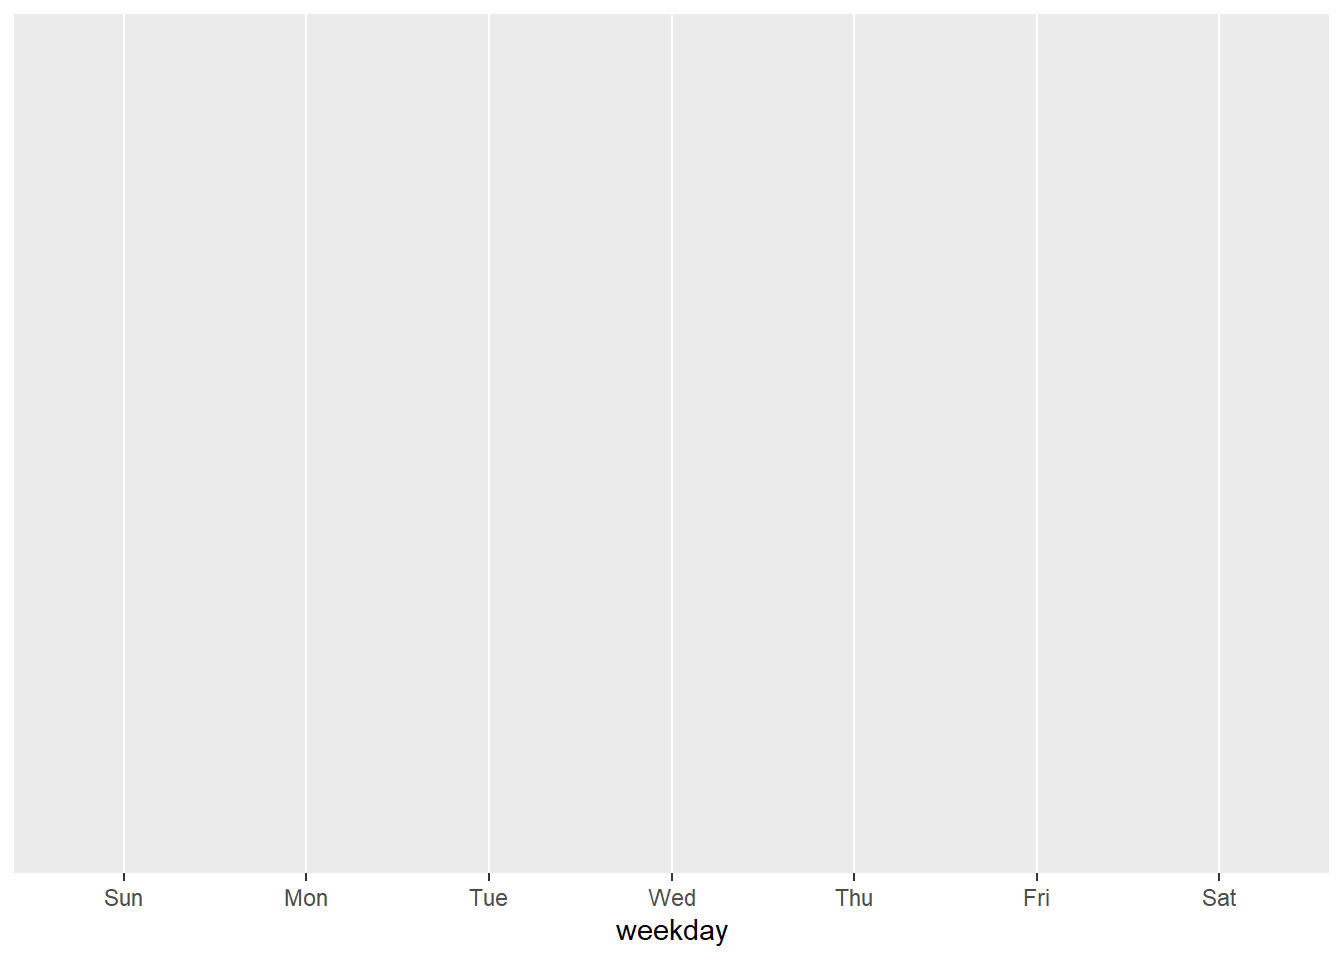
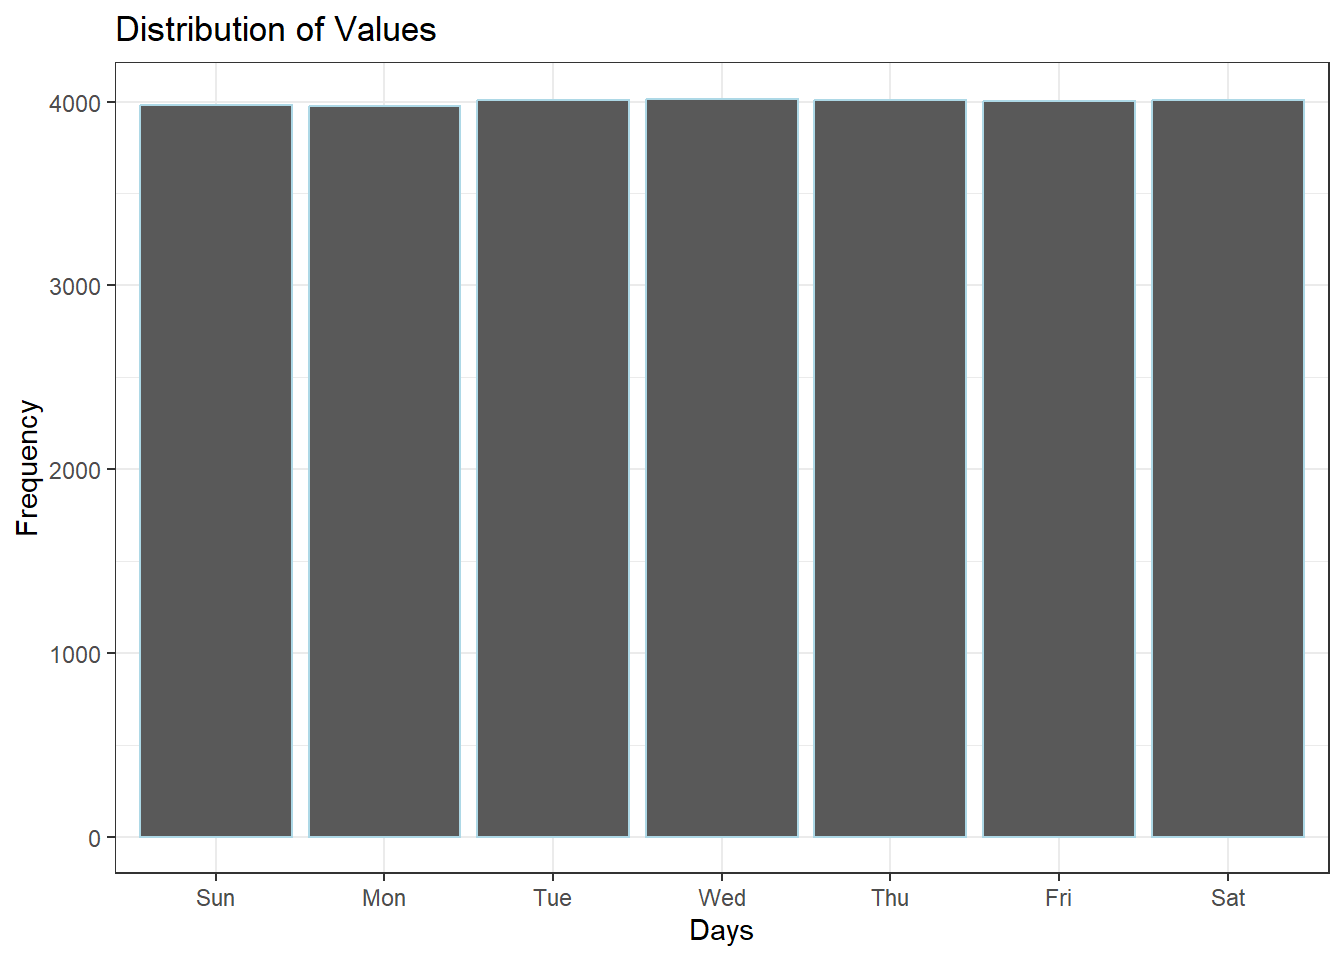
Update ice2

diff --git a/_site/In-Class_Ex/In-class_Ex02/In-class_Ex02.html b/_site/In-Class_Ex/In-class_Ex02/In-class_Ex02.html
@@ -134,11 +134,11 @@ pre > code.sourceCode > span > a:first-child::before { text-decoration: underlin
   </li>  
         <li>
     <a class="dropdown-item" href="../../Hands-on_Ex/Hands-on_Ex03/Hands-on_Ex03a.html" rel="" target="">
- <span class="dropdown-text">Hands-on Exercise 3a</span></a>
+ <span class="dropdown-text">Hands-on Exercise 3A</span></a>
   </li>  
         <li>
     <a class="dropdown-item" href="../../Hands-on_Ex/Hands-on_Ex03/Hands-on_Ex03b.html" rel="" target="">
- <span class="dropdown-text">Hands-on Exercise 3b</span></a>
+ <span class="dropdown-text">Hands-on Exercise 3B</span></a>
   </li>  
     </ul>
   </li>
@@ -321,7 +321,11 @@ Note
 <div class="cell">
 <details>
 <summary>Code</summary>
-<div class="sourceCode cell-code" id="cb7"><pre class="sourceCode r code-with-copy"><code class="sourceCode r"><span id="cb7-1"><a href="#cb7-1" aria-hidden="true" tabindex="-1"></a><span class="fu">ggplot</span>(<span class="at">data=</span>origin_df, <span class="fu">aes</span>(<span class="at">x=</span>weekday)) </span></code><button title="Copy to Clipboard" class="code-copy-button"><i class="bi"></i></button></pre></div>
+<div class="sourceCode cell-code" id="cb7"><pre class="sourceCode r code-with-copy"><code class="sourceCode r"><span id="cb7-1"><a href="#cb7-1" aria-hidden="true" tabindex="-1"></a><span class="fu">ggplot</span>(<span class="at">data=</span>origin_df, <span class="fu">aes</span>(<span class="at">x=</span>weekday)) <span class="sc">+</span></span>
+<span id="cb7-2"><a href="#cb7-2" aria-hidden="true" tabindex="-1"></a>  <span class="fu">geom_histogram</span>(<span class="at">stat=</span><span class="st">"count"</span>, <span class="at">bins=</span><span class="dv">7</span>, </span>
+<span id="cb7-3"><a href="#cb7-3" aria-hidden="true" tabindex="-1"></a>                   <span class="at">color=</span><span class="st">"lightblue"</span>) <span class="sc">+</span></span>
+<span id="cb7-4"><a href="#cb7-4" aria-hidden="true" tabindex="-1"></a>  <span class="fu">labs</span>(<span class="at">title =</span> <span class="st">"Distribution of Values"</span>, <span class="at">x =</span> <span class="st">"Days"</span>, </span>
+<span id="cb7-5"><a href="#cb7-5" aria-hidden="true" tabindex="-1"></a>       <span class="at">y =</span> <span class="st">"Frequency"</span>) <span class="sc">+</span> <span class="fu">theme_bw</span>()</span></code><button title="Copy to Clipboard" class="code-copy-button"><i class="bi"></i></button></pre></div>
 </details>
 <div class="cell-output-display">
 <p><img src="In-class_Ex02_files/figure-html/unnamed-chunk-8-1.png" class="img-fluid" width="672"></p>
@@ -331,6 +335,32 @@ Note
 </section>
 <section id="converting-into-sf-tibble-data.frame" class="level1">
 <h1>3.0 Converting into sf tibble data.frame</h1>
+<div class="cell">
+<details>
+<summary>Code</summary>
+<div class="sourceCode cell-code" id="cb8"><pre class="sourceCode r code-with-copy"><code class="sourceCode r"><span id="cb8-1"><a href="#cb8-1" aria-hidden="true" tabindex="-1"></a>listings_sf <span class="ot">&lt;-</span> <span class="fu">st_as_sf</span>(origin_df, </span>
+<span id="cb8-2"><a href="#cb8-2" aria-hidden="true" tabindex="-1"></a>                       <span class="at">coords =</span> <span class="fu">c</span>(<span class="st">"rawlng"</span>, <span class="st">"rawlat"</span>),</span>
+<span id="cb8-3"><a href="#cb8-3" aria-hidden="true" tabindex="-1"></a>                       <span class="at">crs=</span><span class="dv">4326</span>) <span class="sc">%&gt;%</span></span>
+<span id="cb8-4"><a href="#cb8-4" aria-hidden="true" tabindex="-1"></a>  <span class="fu">st_transform</span>(<span class="at">crs =</span> <span class="dv">3414</span>)</span>
+<span id="cb8-5"><a href="#cb8-5" aria-hidden="true" tabindex="-1"></a><span class="fu">glimpse</span>(listings_sf)</span></code><button title="Copy to Clipboard" class="code-copy-button"><i class="bi"></i></button></pre></div>
+</details>
+<div class="cell-output cell-output-stdout">
+<pre><code>Rows: 28,000
+Columns: 11
+Groups: trj_id [28,000]
+$ trj_id        &lt;chr&gt; "70895", "21926", "47498", "41322", "18103", "64813", "8…
+$ driving_mode  &lt;chr&gt; "car", "car", "car", "car", "car", "car", "car", "car", …
+$ osname        &lt;chr&gt; "android", "android", "ios", "android", "android", "ios"…
+$ pingtimestamp &lt;dttm&gt; 2019-04-08 00:09:40, 2019-04-08 00:09:49, 2019-04-08 00…
+$ speed         &lt;dbl&gt; 6.799661, 10.812810, 18.307493, 18.670000, 14.072143, 19…
+$ bearing       &lt;int&gt; 41, 68, 307, 230, 155, 109, 213, 202, 179, 109, 312, 209…
+$ accuracy      &lt;dbl&gt; 4.000, 4.000, 8.000, 3.900, 4.000, 10.000, 10.000, 10.00…
+$ weekday       &lt;ord&gt; Mon, Mon, Mon, Mon, Mon, Mon, Mon, Mon, Mon, Mon, Mon, M…
+$ start_hr      &lt;fct&gt; 0, 0, 0, 0, 0, 0, 0, 0, 0, 0, 0, 0, 0, 0, 0, 0, 0, 0, 0,…
+$ day           &lt;fct&gt; 8, 8, 8, 8, 8, 8, 8, 8, 8, 8, 8, 8, 8, 8, 8, 8, 8, 8, 8,…
+$ geometry      &lt;POINT [m]&gt; POINT (21053.57 40263.52), POINT (31268.41 30410.2…</code></pre>
+</div>
+</div>
 </section>
 <section id="visualising-as-point-symbol-map" class="level1">
 <h1>4.0 Visualising as Point Symbol Map</h1>

diff --git a/_site/index.html b/_site/index.html
@@ -305,7 +305,7 @@ Wan Shen
 </a>
 </div>
 </div>
-<div class="quarto-post image-right" data-index="3" data-categories="In-Class Exercise" data-listing-date-sort="1705248000000" data-listing-file-modified-sort="1705291160798" data-listing-date-modified-sort="NaN" data-listing-reading-time-sort="2">
+<div class="quarto-post image-right" data-index="3" data-categories="In-Class Exercise" data-listing-date-sort="1705248000000" data-listing-file-modified-sort="1705322776063" data-listing-date-modified-sort="NaN" data-listing-reading-time-sort="2">
 <div class="thumbnail">
 <p><a href="./In-class_Ex/In-class_Ex02/In-class_Ex02.html"> <p class="card-img-top"><img src="In-class_Ex\In-class_Ex02\In-class_Ex02_files\figure-html\unnamed-chunk-8-1.png"  class="thumbnail-image card-img"/></p> </a></p>
 </div>
